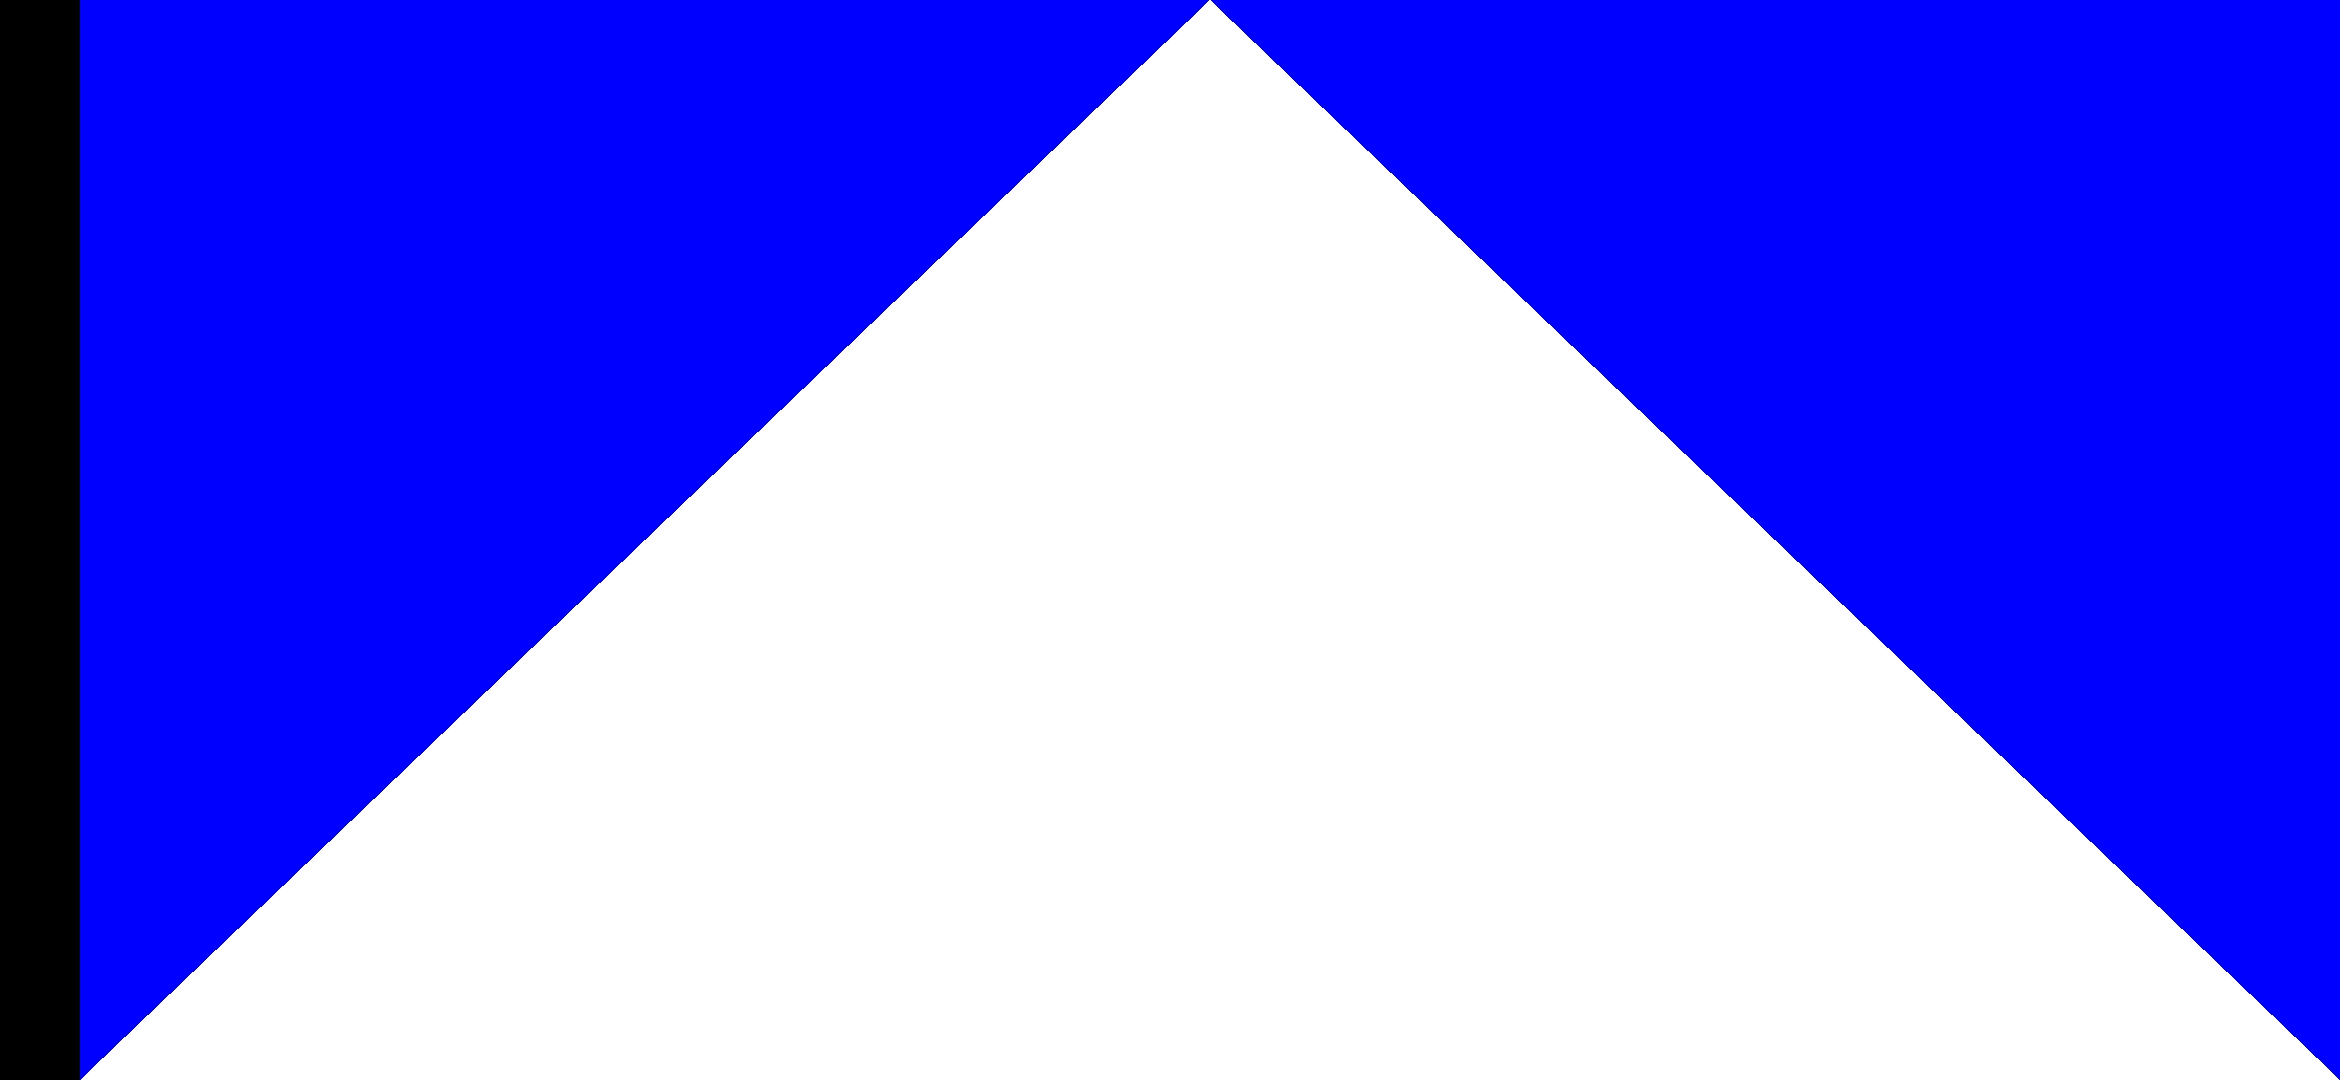
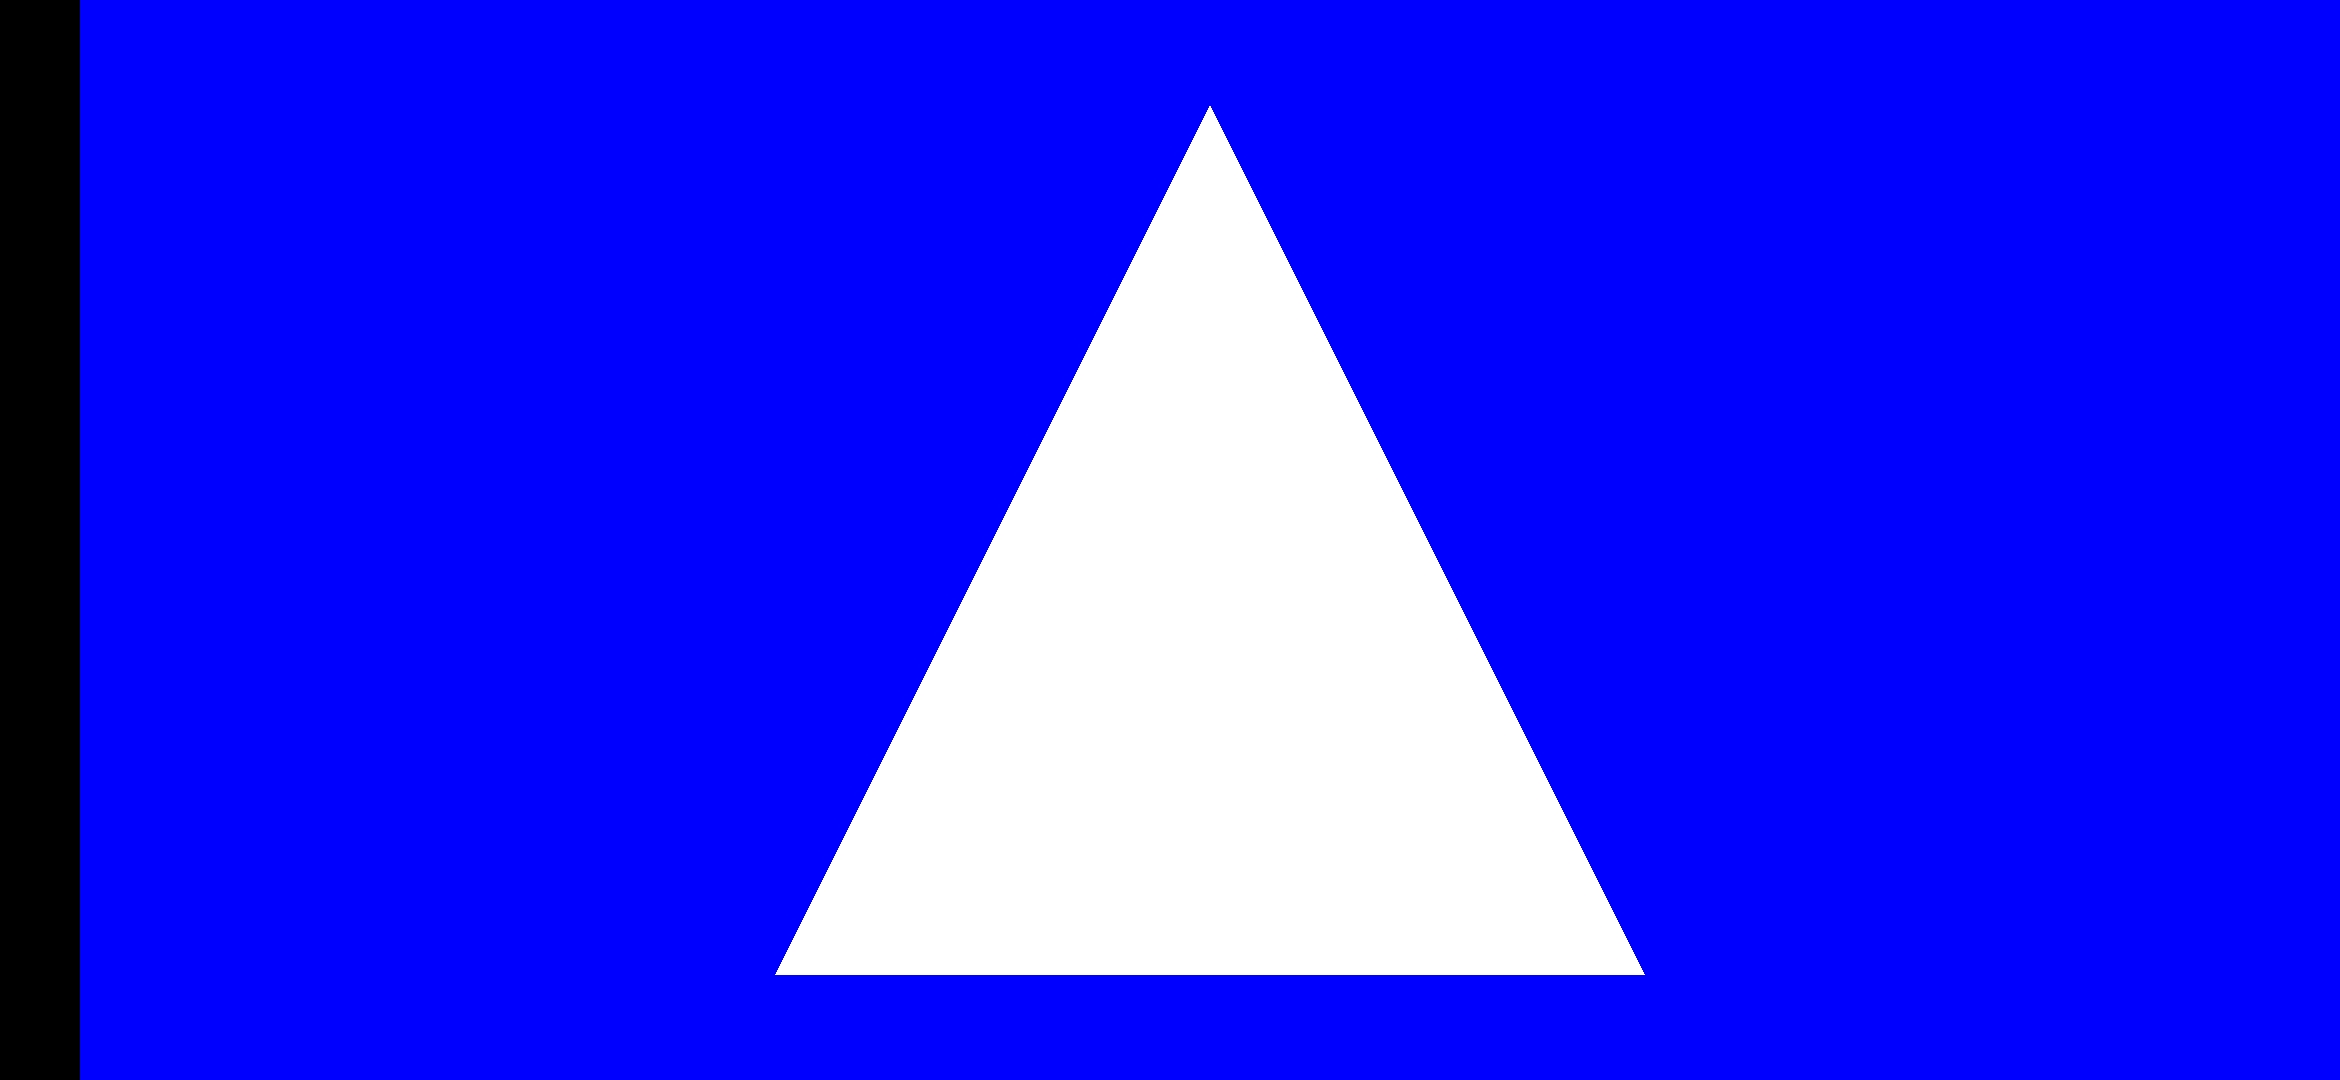
Perspective White Triangle

diff --git a/03-Android/01-ProgrammablePipeline/03-PerspectiveWhiteTriangle/app/src/main/java/com/example/perspective/GLESView.java b/03-Android/01-ProgrammablePipeline/03-PerspectiveWhiteTriangle/app/src/main/java/com/example/perspective/GLESView.java
@@ -319,12 +319,13 @@ public class GLESView extends GLSurfaceView implements GLSurfaceView.Renderer, O
 
 	private void resize(int width, int height)
 	{
+
+		if (height == 0)
+		height = 1;
+
 		GLES32.glViewport(0, 0, width, height);
 
-		if(width<=height)
-		{
-			Matrix.perspectiveM(perspectiveProjectionMatrix, 0, 45.0f, (float)width / (float)height, 0.1f, 100.0f);
-		}
+		Matrix.perspectiveM(perspectiveProjectionMatrix, 0, 45.0f, (float)width / (float)height, 0.1f, 100.0f);
 		
 	}
 
@@ -347,7 +348,9 @@ public class GLESView extends GLSurfaceView implements GLSurfaceView.Renderer, O
 
 		Matrix.translateM(translateMatrix, 0, 0.0f, 0.0f, -3.0f);
 
-		modelViewMatrix[0] = translateMatrix[0];
+		//modelViewMatrix[0] = translateMatrix[0];
+
+		Matrix.multiplyMM(modelViewMatrix, 0, modelViewMatrix, 0, translateMatrix, 0);
 
 		Matrix.multiplyMM(modelViewProjectionMatrix, 0, perspectiveProjectionMatrix, 0, modelViewMatrix, 0);
 
